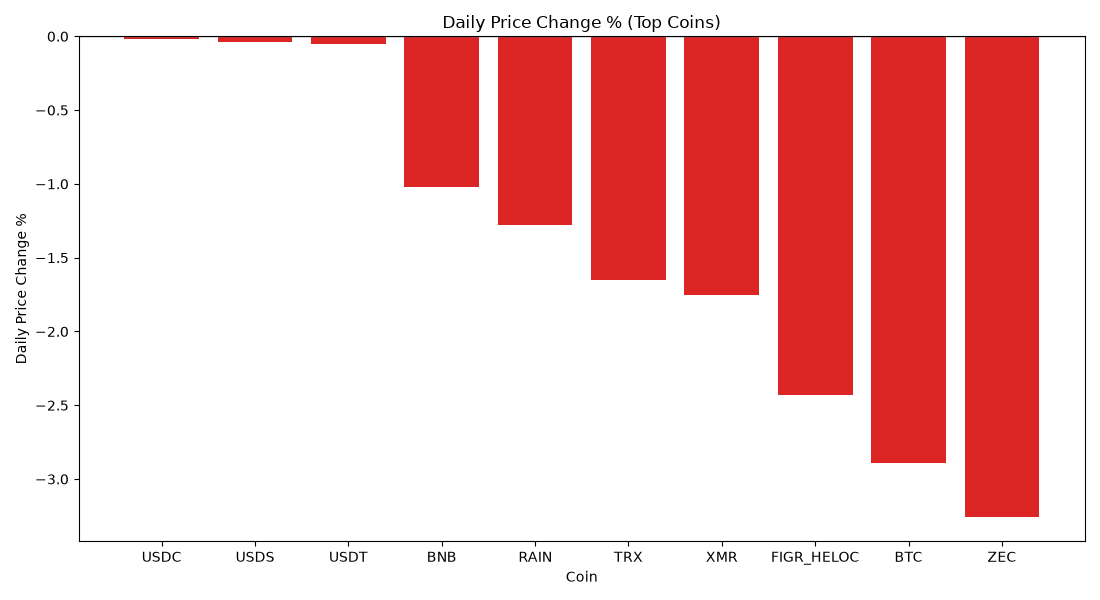
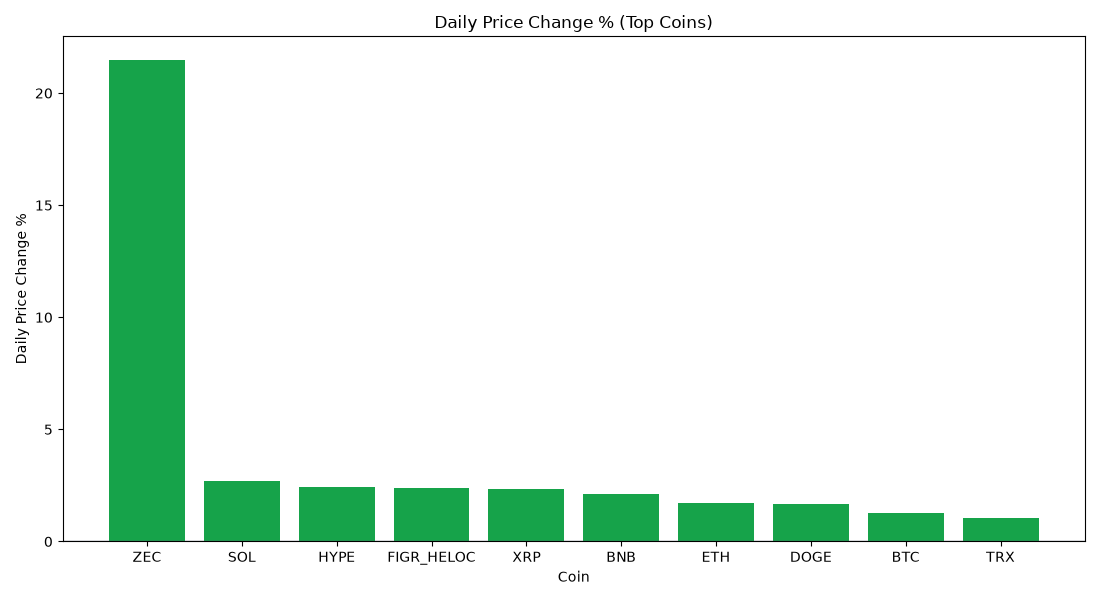
chore: daily crypto ETL update

diff --git a/README.md b/README.md
@@ -48,15 +48,15 @@ It updates:
 <!-- AUTO-GENERATED-SECTION:START -->
 ## Latest Automated Update
 
-![Last Update](https://img.shields.io/badge/last%20update-2026--09--16%2001%3A35%20UTC-blue)
+![Last Update](https://img.shields.io/badge/last%20update-2026--09--17%2001%3A36%20UTC-blue)
 
-- Pipeline run time: **2026-09-16 01:35 UTC**
-- Snapshot date: **2026-09-16**
+- Pipeline run time: **2026-09-17 01:36 UTC**
+- Snapshot date: **2026-09-17**
 - Coins tracked: **15**
-- Avg daily price change: **-2.84%**
+- Avg daily price change: **2.32%**
 
-- Top gainer: **USDC (-0.02%)**
-- Top loser: **XRP (-9.86%)**
+- Top gainer: **ZEC (21.46%)**
+- Top loser: **WBT (-3.37%)**
 
 ### Trend Charts
 
@@ -68,15 +68,15 @@ It updates:
 
 | Coin | Symbol | Price | Daily Change | Trend |
 |---|---:|---:|---:|---|
-| Bitcoin | BTC | $75,694.0000 | -2.89% | Bearish |
-| Ethereum | ETH | $2,398.7300 | -4.57% | Bearish |
-| Tether | USDT | $0.9994 | -0.05% | Sideways |
-| BNB | BNB | $712.3500 | -1.02% | Bearish |
-| XRP | XRP | $1.2800 | -9.86% | Bearish |
-| USDC | USDC | $0.9997 | -0.02% | Sideways |
-| Solana | SOL | $96.8600 | -5.36% | Bearish |
-| TRON | TRX | $0.3323 | -1.65% | Bearish |
-| Figure Heloc | FIGR_HELOC | $1.0030 | -2.43% | Bearish |
-| Zcash | ZEC | $1,120.2600 | -3.26% | Bearish |
+| Bitcoin | BTC | $76,672.0000 | 1.29% | Bullish |
+| Ethereum | ETH | $2,439.5300 | 1.70% | Bullish |
+| Tether | USDT | $0.9993 | -0.01% | Sideways |
+| BNB | BNB | $727.5300 | 2.13% | Bullish |
+| XRP | XRP | $1.3100 | 2.34% | Bullish |
+| USDC | USDC | $0.9996 | 0.00% | Sideways |
+| Solana | SOL | $99.4700 | 2.69% | Bullish |
+| TRON | TRX | $0.3358 | 1.05% | Bullish |
+| Figure Heloc | FIGR_HELOC | $1.0270 | 2.39% | Bullish |
+| Zcash | ZEC | $1,360.7100 | 21.46% | Bullish |
 
 <!-- AUTO-GENERATED-SECTION:END -->

diff --git a/artifacts/reports/daily_summary.md b/artifacts/reports/daily_summary.md
@@ -1,8 +1,8 @@
 # Daily Trend Summary
 
-- Generated at (UTC): 2026-09-16T01:35:42.553801+00:00
-- Snapshot date: 2026-09-16
+- Generated at (UTC): 2026-09-17T01:36:15.836500+00:00
+- Snapshot date: 2026-09-17
 - Coins tracked: 15
-- Average daily price change: -2.84%
-- Top gainer: USDC (-0.02%)
-- Top loser: XRP (-9.86%)
+- Average daily price change: 2.32%
+- Top gainer: ZEC (21.46%)
+- Top loser: WBT (-3.37%)
